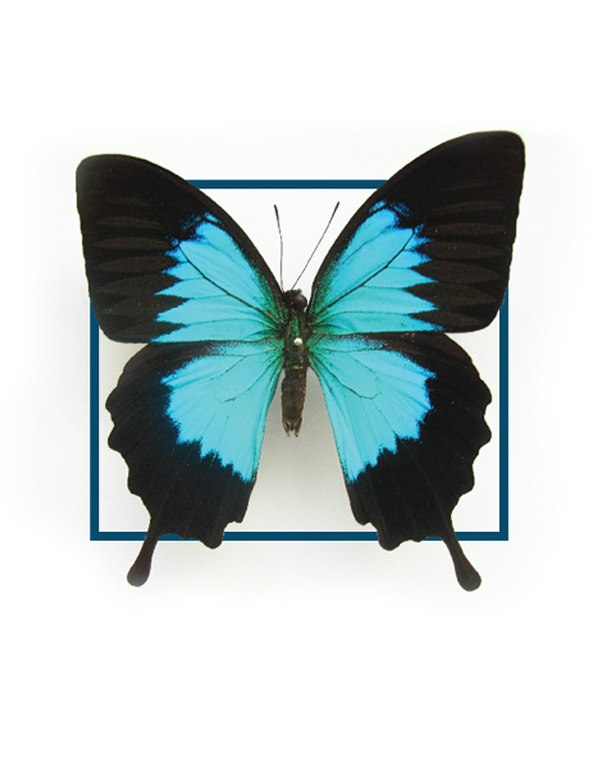
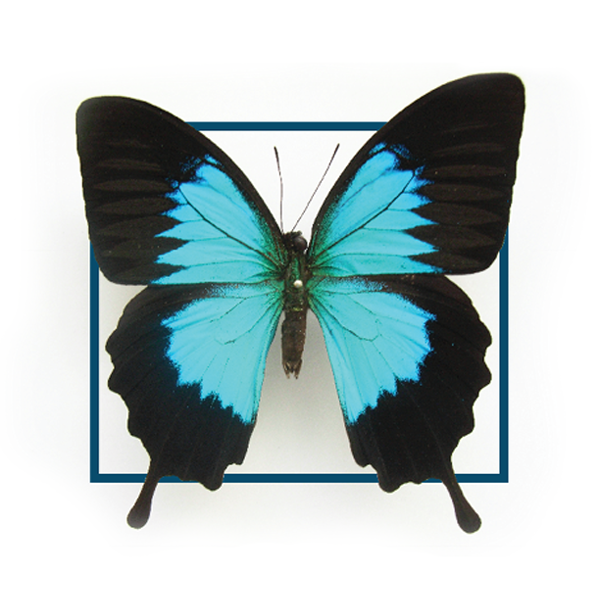
morethings

diff --git a/style.css b/style.css
@@ -97,7 +97,7 @@ table {
 	}
 		.grid{
 		width: 100%;
-		margin-top: 30px;
+		margin-top: 60px;
 		line-height: 0;
 		display: inline-block;
 		}
@@ -105,22 +105,23 @@ table {
 
 			.werk{
 			width: 175px !important;
-  			height: auto !important;
+  			height: 220px !important;
   			margin-top: 5px;
-  			padding-left: 40px; 
+  			padding-left: 50px; 
   			display: inline-block;
-  			clear: both;
+  			float: left;
 			}
+			.werk:hover .addTitle{display: inline-block;}
 
 	
 				.thumbnail{
-				width: 175px !important;
-  				height: auto !important;
+				width: 100%;
 				}
 				.addTitle{
 				text-align: center;
 				width: 100%;
-  				display: block;
+  				display: none;
+
 				}
 
 

diff --git a/work.html b/work.html
@@ -31,7 +31,7 @@
 
   <div class="content"> 
     <section class="grid">
-      <div class="werk"><img src="home4.2.png" class="thumbnail"><div class="addTitle"><p>home</p></div></div>
+      <div class="werk"><img src="home4.png" class="thumbnail"><div class="addTitle"><p>home</p></div></div>
       <div class="werk"><img src="HereNow3.png" class="thumbnail"/><div class="addTitle"><p>here & now</p></div></div>
       <div class="werk"><img src="HMNH2.png" class="thumbnail"/><div class="addTitle"><p>hmnh identity</p></div></div>
 
